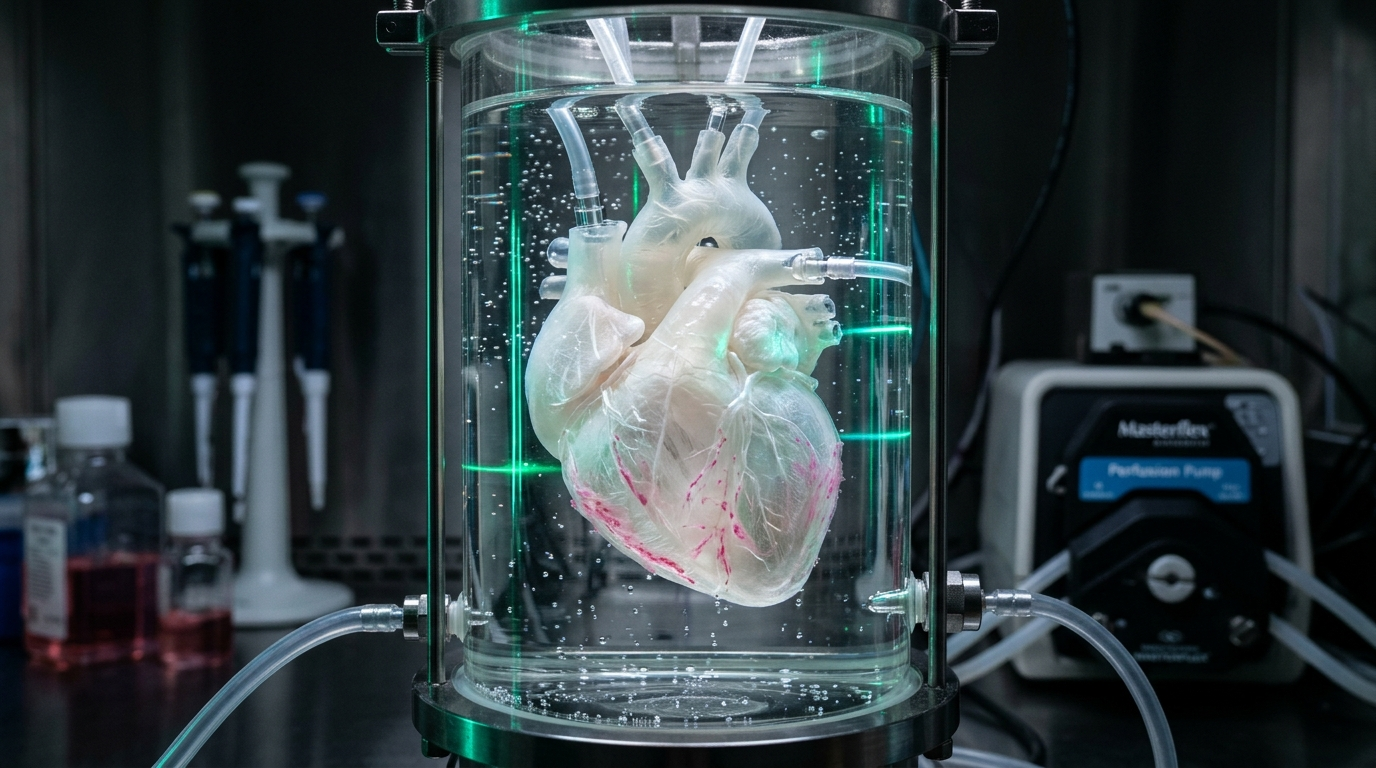
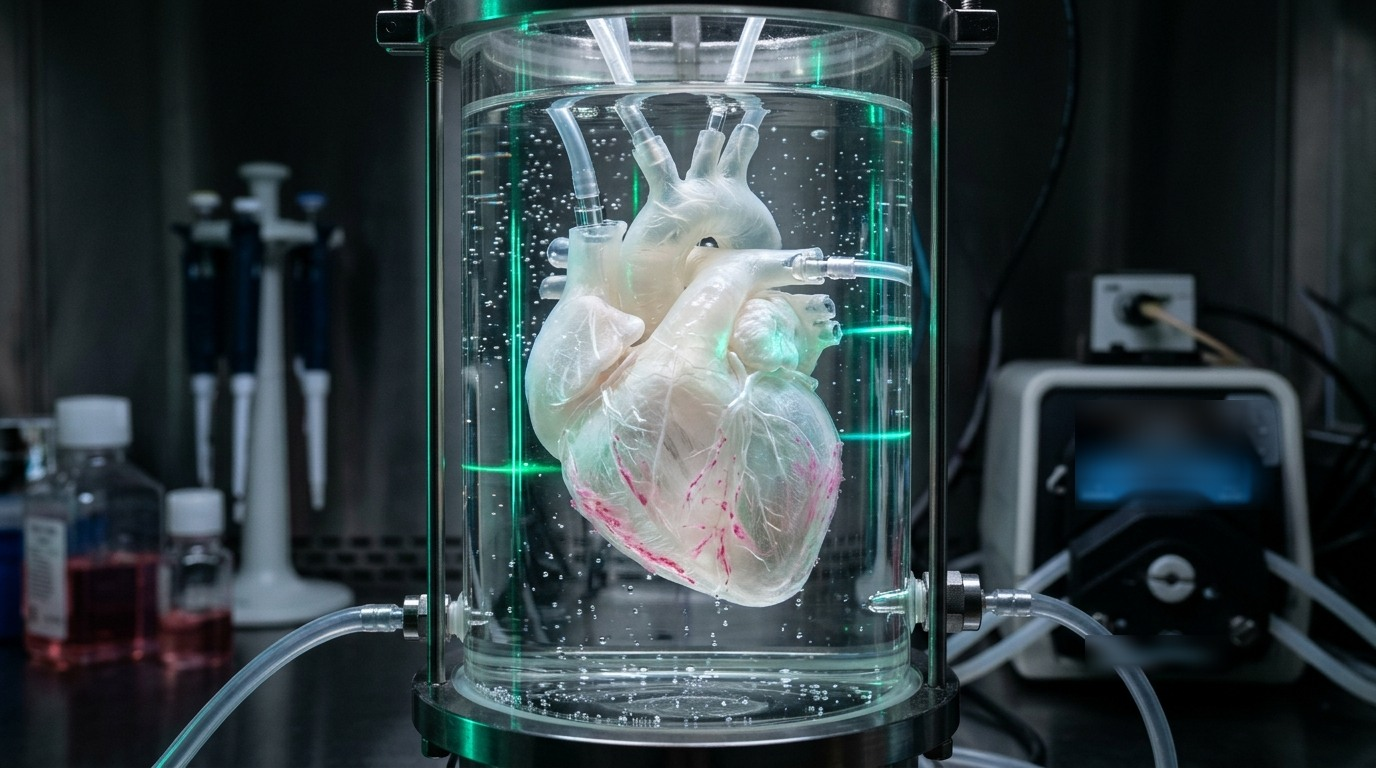
feat: real Kiro hooks, README, credits and trademark-free lab photos
- .kiro/hooks/prometheus-lab.json (v1 format): related tests on save,
  secret scan on save, private strategy doc guard, citation check agent
- README rewritten for the current app and Kiro usage; CREDITS.md lists
  every Wikimedia file with author and license (Commons API)
- Blur the pump brand label in the ghost-heart frames
  (scripts/mask-pump-label.ps1); drop the journal-masthead BrainEx image

Changed region(s): [[0.7812, 0.5, 0.9375, 0.6562], [0.7812, 0.8125, 0.8438, 0.875]]

diff --git a/src/data/bioExperiments.ts b/src/data/bioExperiments.ts
@@ -307,7 +307,7 @@ export const VERIFIED_BIO_EXPERIMENTS: BioExperimentCase[] = [
     videoUrl: "https://upload.wikimedia.org/wikipedia/commons/6/60/Mitosis_480%2A360.theora.ogv",
     fallbackVideoUrl: "https://upload.wikimedia.org/wikipedia/commons/f/fd/MTS_mitosis_project.theora.ogv",
     microscopyPhotoUrl: "/images/yale_brainex_perfusion_lab.jpg",
-    secondaryPhotoUrl: "/images/yale_brainex_nature_cover.jpg",
+    secondaryPhotoUrl: "/images/yale_brainex_perfusion_lab.jpg",
     hostTissueA: "Decapitated Mammalian Brain (4 Hours Post-Mortem Ischemia)",
     koreanHostTissueA: "사망 후 4시간이 경과해 혈류가 완전히 멈춘 포유류의 분리된 뇌",
     stemCellBridge: {

diff --git a/README.md b/README.md
@@ -1,26 +1,78 @@
-# 🧬 PROMETHEUS-iPSC | The Modern Bio-Frankenstein Stem-Cell Lab
-> **Kiroween 2026 Hackathon Submission — Track: Frankenstein**
+# PROMETHEUS-iPSC: The Modern Bio-Frankenstein Lab
 
-In 1818, Victor Frankenstein stitched dead tissues together with crude surgical thread and lightning. In 2026, modern regenerative biology uses **Induced Pluripotent Stem Cells (iPSCs)**—reprogrammed via Yamanaka transcription factors (`OCT4`, `SOX2`, `KLF4`, `c-MYC`)—as the ultimate living bio-glue capable of differentiating into beating cardiomyocytes, cortical neurons, and vascular networks to fuse incompatible biological hosts and synthetic microchips.
+Kiroween 2026 submission, **Frankenstein** track. Live app: https://asura.cafeblanc.kr
 
-**PROMETHEUS-iPSC** stitches together **4 incompatible technologies** into a single interactive bio-archive and stem-cell surgical simulator backed 100% by real peer-reviewed scientific breakthroughs (*Nature*, *Cell*, *Neuron*, PubMed/EuropePMC, and Wikimedia Commons confocal microscopy):
+In 1818 Victor Frankenstein stitched dead tissue together with thread and lightning. In 2026 regenerative biology
+does it with induced pluripotent stem cells (iPSCs), reprogrammed by the Yamanaka factors `OCT4`, `SOX2`, `KLF4`
+and `c-MYC`. PROMETHEUS-iPSC is a dark lab archive of six real, peer-reviewed "Frankenstein" experiments, plus a
+monster lab where you design a chimera, grow it in a bioreactor and send it into a video battle arena.
 
-1. **🐭🧠 Case #01 — Stanford *Xenocortication* (92% Human-Brain Mouse Chimera)**: Human iPSC cerebral organoids transplanted into genetically depleted mouse brains replace 92% of the cortical volume, awakening human-specific von Economo neurons (*Nature*, Sergiu Pașca Lab).
-2. **👻🫀 Case #02 — *Ghost Heart* Recellularization**: Cadaveric hearts stripped with detergent down to a white translucent collagen scaffold and resurrected with beating iPSC cardiomyocytes (*Nature Medicine*, Doris Taylor Lab).
-3. **🧠⚡ Case #03 — Yale *BrainEx* Post-Mortem Revival**: Restoring synaptic firing and circulation in decapitated pig brains 4 hours after death (*Nature*, Nenad Sestan Lab).
-4. **🕹🧬 Case #04 — *DishBrain* Sentient Silicon-Neuron Hybrid**: 800,000 human iPSC cortical neurons fused onto a CMOS microchip that learned to play *Pong* in 5 minutes (*Neuron*, Cortical Labs).
-5. **🤖🦠 Case #05 — *Anthrobots & Xenobots***: Self-assembling living human biobots that swim across severed human neural tissue and stitch wounds closed (*Advanced Science*, Michael Levin Lab).
-6. **🐷🧬 Case #06 — Salk *Human-Pig Chimera* Embryo**: CRISPR organ-niche deletion + human pluripotent stem cell blastocyst fusion (*Cell*, Izpisua Belmonte Lab).
+## The chimera
 
----
+The app stitches technologies that were never meant to work together into one browser experience:
 
-## 📐 How We Built It with Kiro (`/.kiro` Directory)
-- **`.kiro/steering/`**: `product.md` and `tech.md` establish our domain rules, bioluminescent lab palette, and zero-key live scientific API architecture.
-- **`.kiro/specs/stem-cell-bio-stitcher/`**:
-  - `requirements.md`: EARS-formatted functional requirements (`WHEN ... THE SYSTEM SHALL ...`).
-  - `design.md`: Mermaid architecture diagrams and iPSC differentiation state machines.
-  - `tasks.md`: Step-by-step implementation plan across our 4 modular blocks.
-- **`.kiro/hooks/`**: `pubmed-citation-verifier.hook.json` automatically validates PMID/DOI citations and stem-cell differentiation factors whenever `bioExperiments.ts` is saved.
+- **Peer-reviewed science.** Europe PMC (PubMed) and Wikipedia REST APIs, queried live, no key needed.
+- **Generative video.** The LTX-2.5 video API, called through a Vercel serverless proxy that holds the key.
+- **Generative images.** Stable Diffusion 3 on HuggingFace, with Pollinations as a free fallback.
+- **Procedural sound.** WebAudio heartbeat, bubbling and roars, all synthesized in code.
+- **Local persistence.** IndexedDB stores your monsters and their videos in the browser.
 
-## License
-MIT License (see [LICENSE](./LICENSE)).
+## What you can do
+
+1. **Experiment archive.** Six real cases, each with the paper's journal, year and PMID/DOI, footage and a narrator:
+   - Stanford xenocortication: human cortical organoids in rat brains (Pașca lab, *Nature*).
+   - Ghost Heart: decellularised hearts re-seeded with cardiac cells (Taylor lab, *Nature Medicine*).
+   - Yale BrainEx: circulation and cell function restored in pig brains hours after death (Sestan lab, *Nature*).
+   - DishBrain: cortical neurons on a multi-electrode chip learning *Pong* (Cortical Labs, *Neuron*).
+   - Anthrobots: self-assembling biobots built from human airway cells (Levin lab, *Advanced Science*).
+   - Human-pig chimera embryos (Izpisua Belmonte lab, *Cell*).
+2. **Cross-verifier.** Ask about any case. The lab queries Europe PMC and Wikipedia live and shows the sources.
+3. **Design Room.** Pick a base species and traits. A free HuggingFace image previews the design before you spend
+   anything on video. Stats share a 450-point budget, and no stat or win chance ever reaches 0% or 100%.
+4. **Bioreactor.** The embryo grows through six stages with a rising heartbeat, then breaks the glass and roars.
+5. **Arena.** Two monsters fight in a 16-second LTX battle video written from their stats. Each monster has one
+   finisher and one defence move, and the winner wins with its finisher.
+6. **Monster manager.** Rename, export as ZIP, or delete your monsters and clear duplicates.
+
+### Cost note for judges
+
+The archive, the cross-verifier, the Design Room images and the bioreactor growth of the six sample monsters are
+free. Only new LTX videos (custom growth clips and arena battles) cost money, about $0.13 per second. The server
+caps them at 5 per day and answers 429 after that.
+
+## Run it locally
+
+```bash
+npm install
+cp .env.example .env.local   # LTXV_API_KEY and HF_TOKEN; both optional for the free features
+npx vercel dev               # serves the Vite app and the api/ functions together
+# or, frontend only:
+npm run dev
+```
+
+Checks: `npx tsc --noEmit`, `npx tsc -p api --noEmit`, `npm test` (vitest, 37 files), `npm run build`.
+
+## How Kiro was used
+
+- **Specs** (`.kiro/specs/`). Each feature was built from requirements, design and tasks documents:
+  - `stem-cell-bio-stitcher`: the experiment archive.
+  - `kiroween-rearchitecture`: the six-stage growth engine.
+  - `video-arena-bioreactor-overhaul`: the arena.
+  - `ltx-custom-studio-arena`: the LTX pipeline and custom monsters.
+  - `hidden-bugs-audit`: a bug-condition and preservation audit.
+  - `arena-engagement-loop` and `sample-monster-fix`: plans for the arena loop and the sample monsters.
+- **Steering** (`.kiro/steering/product.md`, `tech.md`, plus `AGENTS.md`). These hold the product vision, palette,
+  API rules and working rules for the agent: a retry limit, a single dev server, and private strategy docs that stay
+  out of git.
+- **Hooks** (`.kiro/hooks/prometheus-lab.json`):
+  - `related-tests-on-save` runs the vitest suites that import a saved file.
+  - `secret-scan-on-save` warns about HF, AWS, OpenAI or GitHub tokens in a saved file.
+  - `private-strategy-doc-guard` checks that a new strategy document is gitignored.
+  - `peer-review-citation-check` asks the agent to re-verify citations in Europe PMC and to update `CREDITS.md`.
+- **Property-based testing.** 21 test files use `fast-check`, covering stage timing, BPM progression, stat budget,
+  battle odds, video fallbacks and more.
+- **Sub-agents.** Used for parallel audits, documentation lookups and independent verification of changes.
+
+## Credits and license
+
+Media sources and licenses are listed in [CREDITS.md](./CREDITS.md). Code is MIT licensed ([LICENSE](./LICENSE)).

diff --git a/CREDITS.md b/CREDITS.md
@@ -1,0 +1,43 @@
+# Credits and media sources
+
+PROMETHEUS-iPSC uses only media that is either licensed for reuse, generated for this project, or synthesized in code.
+No third-party logos or trademarks are intended to appear; if you spot one, please open an issue.
+
+## Wikimedia Commons (streamed at runtime from upload.wikimedia.org)
+
+Used in `src/data/bioExperiments.ts` as microscopy footage and photos. License and author data come from the
+Commons API (`prop=imageinfo&iiprop=extmetadata`), checked on 2026-11-20.
+
+| File | Author | License |
+|---|---|---|
+| [Mitosis 480*360.theora.ogv](https://commons.wikimedia.org/wiki/File:Mitosis_480*360.theora.ogv) | Cookatoo.ergo.ZooM | CC BY-SA 3.0 |
+| [MTS mitosis project.theora.ogv](https://commons.wikimedia.org/wiki/File:MTS_mitosis_project.theora.ogv) | Cookatoo.ergo.ZooM | CC BY-SA 3.0 |
+| [Human Cerebral Organoids (53728295930).jpg](https://commons.wikimedia.org/wiki/File:Human_Cerebral_Organoids_(53728295930).jpg) | NIAID | CC BY 2.0 |
+| [Human Brain Organoid.jpg](https://commons.wikimedia.org/wiki/File:Human_Brain_Organoid.jpg) | Nreis1 | CC BY 4.0 |
+| [HDAC1 cardiomyocyte differentiation, pone.0045046.s001.ogv](https://commons.wikimedia.org/wiki/File:Elucidation-of-a-Novel-Pathway-through-Which-HDAC1-Controls-Cardiomyocyte-Differentiation-through-pone.0045046.s001.ogv) | Hoxha E, Lambers E, Wasserstrom J, Mackie A, Ramirez V, Abramova T, Verma S, Krishnamurthy P, Kishore R | CC BY 2.5 |
+| [HDAC1 cardiomyocyte differentiation, pone.0045046.s003.ogv](https://commons.wikimedia.org/wiki/File:Elucidation-of-a-Novel-Pathway-through-Which-HDAC1-Controls-Cardiomyocyte-Differentiation-through-pone.0045046.s003.ogv) | Hoxha E et al. (as above) | CC BY 2.5 |
+| [HDAC1 cardiomyocyte differentiation, pone.0045046.s004.ogv](https://commons.wikimedia.org/wiki/File:Elucidation-of-a-Novel-Pathway-through-Which-HDAC1-Controls-Cardiomyocyte-Differentiation-through-pone.0045046.s004.ogv) | Hoxha E et al. (as above) | CC BY 2.5 |
+| [Proteolysis regulates cardiomyocyte maturation, ncomms14495-s3.ogv](https://commons.wikimedia.org/wiki/File:Proteolysis-regulates-cardiomyocyte-maturation-and-tissue-integration-ncomms14495-s3.ogv) | Fukuda R, Gunawan F, Beisaw A, Jimenez-Amilburu V, Maischein H, Kostin S, Kawakami K, Stainier D | CC BY 4.0 |
+| [Mitosis drosophila larva.ogv](https://commons.wikimedia.org/wiki/File:Mitosis_drosophila_larva.ogv) | Denysbondar | CC BY-SA 3.0 |
+| [AxolotlBE.jpg](https://commons.wikimedia.org/wiki/File:AxolotlBE.jpg) | th1098 | CC BY-SA 3.0 |
+
+The files are streamed unmodified from Wikimedia; the CC BY-SA terms apply to those files only, not to this repository's code.
+
+## Generated for this project
+
+| Media | Tool |
+|---|---|
+| Experiment clips in `public/videos/experiments/`, growth and battle videos made in the app | [LTX Video API](https://ltx.video) (`ltx-2-5-fast`), scripts `scripts/gen-experiment-clips.mjs`, `scripts/gen-heart-clip.mjs` |
+| Sample monster images in `public/images/samples/`, Design Room images | Stable Diffusion 3 Medium via the HuggingFace Inference API (`api/generate-image.ts`, `scripts/gen-design-candidates.ts`); fallback [Pollinations](https://pollinations.ai) |
+| Lab and experiment illustrations in `public/images/` | AI image generation for this project. They are illustrations, not photographs from the cited labs. |
+| Roars and heartbeat in `public/sounds/` | Synthesized in code (`scripts/generate12Roars.cjs`, `scripts/generateRoarSound.cjs`, `scripts/generateHeartbeatWav.cjs`) |
+
+## Live data
+
+- [Europe PMC REST API](https://europepmc.org/RestfulWebService) for peer-reviewed paper lookups.
+- [Wikipedia REST API](https://en.wikipedia.org/api/rest_v1/) for encyclopedic summaries (CC BY-SA 4.0 text).
+
+## Cited research
+
+Each experiment card cites its paper (journal, year, PMID/DOI) in `src/data/bioExperiments.ts`. The app summarizes
+the findings for a general audience; the papers are the authority.
